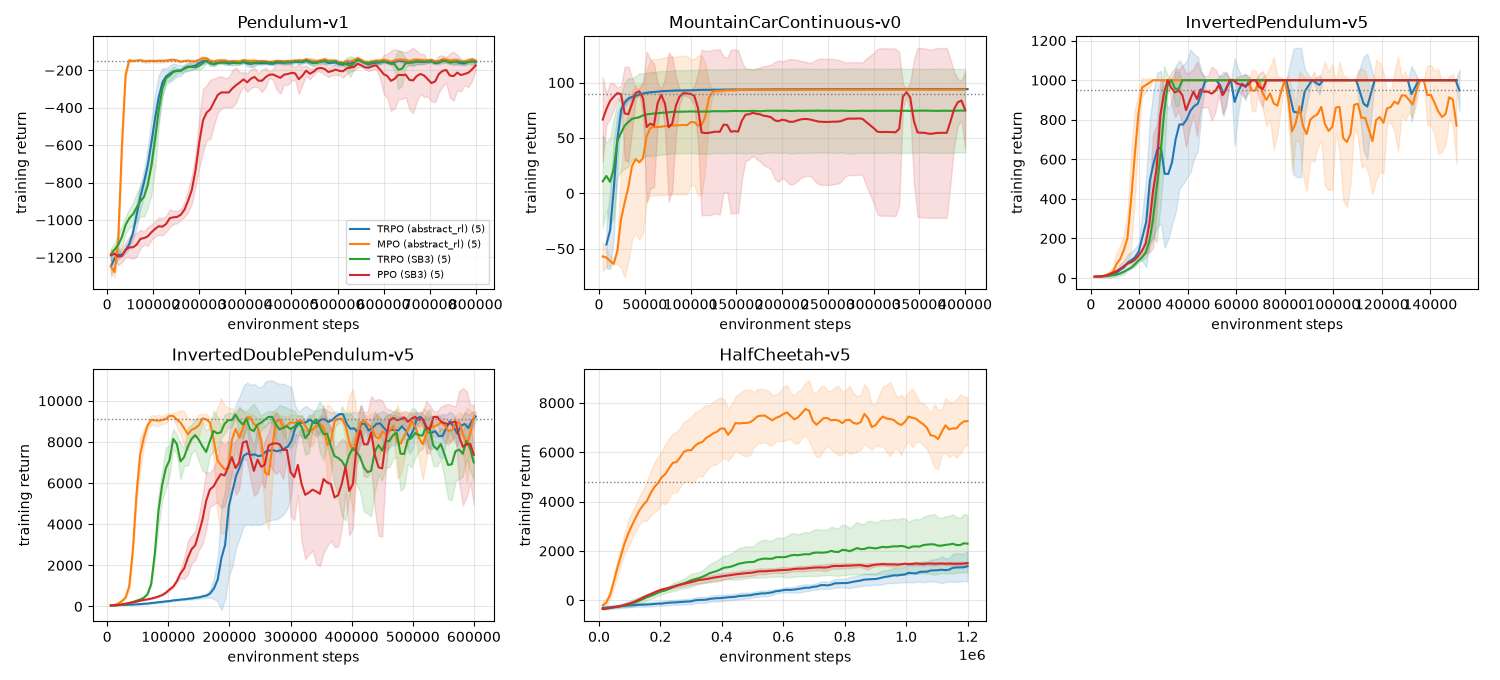
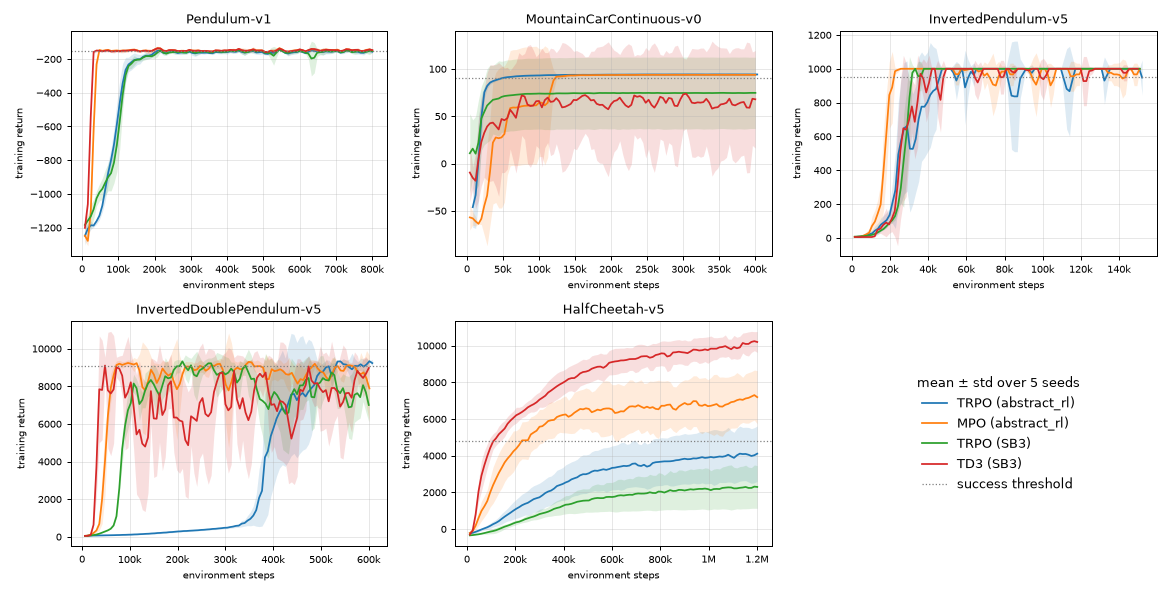
Add benchmark results for MPO, TRPO, SB3 TRPO and SB3 TD3 to the README
Five seeds per algorithm on Pendulum-v1, MountainCarContinuous-v0,
InvertedPendulum-v5, InvertedDoublePendulum-v5 and HalfCheetah-v5, each with
the same env-step budget. MPO solves all five environments on 5/5 seeds; the
README shows a GIF of the best MPO policy per environment and one combined
reward-curve plot of the four algorithms.

Tuned configs behind the results: InvertedPendulum MPO with a 300k replay
memory, InvertedDoublePendulum MPO with a KL trust region of 0.005, and
HalfCheetah TRPO with 300 epochs. The TRPO rows for InvertedDoublePendulum and
HalfCheetah come from reruns with the committed configs.

diff --git a/tests/test_hydra_config.py b/tests/test_hydra_config.py
@@ -27,7 +27,7 @@ def test_deliberate_environment_overrides():
 def test_trpo_budgets_for_halfcheetah_and_inverted_double_pendulum():
     halfcheetah = run_dict(load(["env=halfcheetah", "alg=trpo"]))
     assert halfcheetah["obs_norm"] is True
-    assert halfcheetah["num_epochs"] == 600
+    assert halfcheetah["num_epochs"] == 300
     assert halfcheetah["policy_batch_size"] == 4000
     assert halfcheetah["trpo_tr_eps"] == 0.02
     assert halfcheetah["val_l2_reg"] == 0.0

diff --git a/README.md b/README.md
@@ -9,9 +9,13 @@ Modular PyTorch implementations of **TRPO** and **MPO** for continuous control, 
 ruff, mypy; runs on Gymnasium environments with one- and multi-dimensional actions and is benchmarked against
 Stable-Baselines3.
 
-| MPO on Pendulum-v1 (swing-up from hanging down) | MPO on MountainCarContinuous-v0 |
-|---|---|
-| ![MPO Pendulum](docs/mpo_pendulum_best.gif) | ![MPO MountainCar](docs/mpo_mountaincar_best.gif) |
+| MPO on Pendulum-v1 (swing-up from hanging down) | MPO on MountainCarContinuous-v0 | MPO on InvertedPendulum-v5 |
+|---|---|---|
+| ![MPO Pendulum](docs/mpo_pendulum_best.gif) | ![MPO MountainCar](docs/mpo_mountaincar_best.gif) | ![MPO InvertedPendulum](docs/mpo_inverted_pendulum_best.gif) |
+| **MPO on InvertedDoublePendulum-v5** | **MPO on HalfCheetah-v5** | |
+| ![MPO InvertedDoublePendulum](docs/mpo_inverted_double_pendulum_best.gif) | ![MPO HalfCheetah](docs/mpo_halfcheetah_best.gif) | |
+
+The GIFs show one greedy episode of the best MPO policy per environment (highest greedy return over all runs).
 
 - **TRPO**: Trust Region Policy Optimization ([Schulman et al., 2015](https://arxiv.org/abs/1502.05477)) with
   [GAE](https://arxiv.org/abs/1506.02438), conjugate gradient natural gradient step and a KL line search.
@@ -42,25 +46,28 @@ smoothed training return reaches it (median over the seeds that do).
 | Environment | Algorithm | Seeds | Steps | Greedy return (mean ± std) | Solved | Steps to threshold |
 |---|---|---|---|---|---|---|
 | Pendulum-v1 (≥ -150) | TRPO (abstract_rl) | 5 | 800,000 | -127.7 ± 2.7 | 5/5 | 192,000 (5/5) |
-| Pendulum-v1 (≥ -150) | MPO (abstract_rl) | 5 | 800,000 | -123.8 ± 1.0 | 5/5 | 40,000 (5/5) |
+| Pendulum-v1 (≥ -150) | MPO (abstract_rl) | 5 | 800,000 | -123.3 ± 0.4 | 5/5 | 36,000 (5/5) |
 | Pendulum-v1 (≥ -150) | TRPO (SB3) | 5 | 800,000 | -124.0 ± 1.6 | 5/5 | 204,000 (5/5) |
-| Pendulum-v1 (≥ -150) | TD3 (SB3) | pending | pending | pending | pending | pending |
+| Pendulum-v1 (≥ -150) | TD3 (SB3) | 5 | 800,000 | -120.9 ± 1.0 | 5/5 | 36,000 (5/5) |
 | MountainCarContinuous-v0 (≥ 90) | TRPO (abstract_rl) | 5 | 401,254 | 94.1 ± 0.7 | 5/5 | 44,286 (5/5) |
-| MountainCarContinuous-v0 (≥ 90) | MPO (abstract_rl) | 5 | 400,039 | 93.6 ± 0.0 | 5/5 | 52,000 (5/5) |
+| MountainCarContinuous-v0 (≥ 90) | MPO (abstract_rl) | 5 | 400,038 | 93.6 ± 0.0 | 5/5 | 56,000 (5/5) |
 | MountainCarContinuous-v0 (≥ 90) | TRPO (SB3) | 5 | 400,072 | 74.7 ± 37.5 | 4/5 | 52,013 (4/5) |
-| MountainCarContinuous-v0 (≥ 90) | TD3 (SB3) | pending | pending | pending | pending | pending |
+| MountainCarContinuous-v0 (≥ 90) | TD3 (SB3) | 5 | 399,966 | 54.9 ± 77.4 | 4/5 | 28,993 (4/5) |
 | InvertedPendulum-v5 (≥ 950) | TRPO (abstract_rl) | 5 | 151,370 | 1000.0 ± 0.0 | 5/5 | 28,000 (5/5) |
-| InvertedPendulum-v5 (≥ 950) | MPO (abstract_rl) | 5 | 150,663 | 950.2 ± 99.6 | 4/5 | 19,000 (5/5) |
+| InvertedPendulum-v5 (≥ 950) | MPO (abstract_rl) | 5 | 150,357 | 1000.0 ± 0.0 | 5/5 | 20,000 (5/5) |
 | InvertedPendulum-v5 (≥ 950) | TRPO (SB3) | 5 | 150,523 | 1000.0 ± 0.0 | 5/5 | 29,000 (5/5) |
-| InvertedPendulum-v5 (≥ 950) | TD3 (SB3) | pending | pending | pending | pending | pending |
-| InvertedDoublePendulum-v5 (≥ 9100) | TRPO (abstract_rl) | 5 | 602,473 | 9092.1 ± 218.8 | 2/5 | 211,015 (5/5) |
-| InvertedDoublePendulum-v5 (≥ 9100) | MPO (abstract_rl) | 5 | 600,178 | 5937.0 ± 4162.1 | 3/5 | 66,066 (5/5) |
+| InvertedPendulum-v5 (≥ 950) | TD3 (SB3) | 5 | 149,310 | 1000.0 ± 0.0 | 5/5 | 25,000 (5/5) |
+| InvertedDoublePendulum-v5 (≥ 9100) | TRPO (abstract_rl) | 5 | 605,543 | 9332.8 ± 3.8 | 5/5 | 431,112 (5/5) |
+| InvertedDoublePendulum-v5 (≥ 9100) | MPO (abstract_rl) | 5 | 600,620 | 9332.9 ± 7.4 | 5/5 | 66,110 (5/5) |
 | InvertedDoublePendulum-v5 (≥ 9100) | TRPO (SB3) | 5 | 599,517 | 8270.3 ± 602.2 | 0/5 | 107,946 (5/5) |
-| InvertedDoublePendulum-v5 (≥ 9100) | TD3 (SB3) | pending | pending | pending | pending | pending |
-| HalfCheetah-v5 (≥ 4800) | TRPO (abstract_rl) | 5 | 1,200,000 | 1903.7 ± 862.3 | 0/5 | never |
-| HalfCheetah-v5 (≥ 4800) | MPO (abstract_rl) | 5 | 1,200,000 | 8350.6 ± 1043.4 | 5/5 | 198,000 (5/5) |
+| InvertedDoublePendulum-v5 (≥ 9100) | TD3 (SB3) | 5 | 599,243 | 9347.9 ± 10.3 | 5/5 | 26,996 (5/5) |
+| HalfCheetah-v5 (≥ 4800) | TRPO (abstract_rl) | 5 | 1,200,000 | 4471.7 ± 1645.7 | 3/5 | 732,000 (2/5) |
+| HalfCheetah-v5 (≥ 4800) | MPO (abstract_rl) | 5 | 1,200,000 | 7940.5 ± 1398.2 | 5/5 | 210,000 (5/5) |
 | HalfCheetah-v5 (≥ 4800) | TRPO (SB3) | 5 | 1,200,000 | 2547.9 ± 1314.1 | 0/5 | never |
-| HalfCheetah-v5 (≥ 4800) | TD3 (SB3) | pending | pending | pending | pending | pending |
+| HalfCheetah-v5 (≥ 4800) | TD3 (SB3) | 5 | 1,200,000 | 11009.6 ± 522.5 | 5/5 | 96,000 (5/5) |
+
+Learning curves of the four algorithms on environment steps (training return, mean ± std over the 5 seeds; the
+runs of the table):
 
 ![benchmark](docs/benchmark.png)
 
@@ -70,16 +77,22 @@ smoothed training return reaches it (median over the seeds that do).
   step budget (`max_env_steps`).
 - **Pendulum balance check** (`scripts/eval_balance.py`, |θ| < 0.1 rad in the last 100 of 200 steps, 20 start
   states): TRPO and MPO balance in 5/5 seeds and 20/20 episodes each (max |θ| 0.012-0.057 rad TRPO, 0.032-0.098 rad MPO).
-- **SB3 baselines**: library defaults, except MountainCarContinuous-v0, which uses the
+- **SB3 baselines**: TRPO uses the library defaults, except on MountainCarContinuous-v0, which uses the
   [rl-baselines3-zoo](https://github.com/DLR-RM/rl-baselines3-zoo) hyper-parameters (`--zoo`, gSDE exploration) at
-  the same 400k budget; with defaults both SB3 algorithms score 0 there. On Pendulum-v1 the zoo settings were worse
-  than the defaults (TRPO -136), so the defaults are shown. TD3 is pending.
-- **InvertedPendulum, InvertedDoublePendulum, HalfCheetah** are not re-tuned. MPO stops after a fixed number of epochs
-  and finishes the running episode, so on the two pendulums it ran up to 4-6% past the budget; the learning curves are
-  cut at the budget, the greedy return is the one of the final policy. MPO is less stable late in training there
-  (one InvertedPendulum seed, two InvertedDoublePendulum seeds collapse after reaching the maximum).
-- Runs were made on Linux (Python 3.13) and a MacBook (Python 3.14) with one CPU thread; seeds are fixed but results
-  are not bit-reproducible across machines.
+  the same 400k budget; with the defaults it scores 0 there. On Pendulum-v1 the zoo settings were worse than the
+  defaults (-136), so the defaults are shown. TD3 always uses the zoo hyper-parameters (`ZOO` in
+  `scripts/run_baselines.py`); on MountainCarContinuous-v0 one of five seeds (seed 3) never finds the goal (-99.9).
+- **MPO tuned for InvertedPendulum and InvertedDoublePendulum** (one setting each, see `conf/tune/`): a 300k
+  instead of 50k replay memory (`tc_size`) on InvertedPendulum (4/5 → 5/5 seeds) and a KL trust region
+  (`mpo_trust_regions`) of 0.005 instead of 0.01 on InvertedDoublePendulum (3/5 → 5/5); both remove the late-training
+  collapse of single seeds. HalfCheetah MPO is not re-tuned. MPO stops after a fixed number of epochs and finishes the
+  running episode, so on the two pendulums it ran up to 5% (InvertedPendulum) and 7% (InvertedDoublePendulum) past the
+  budget; the learning curves are cut at the budget, the greedy return is the one of the final policy.
+- **TRPO tuned for InvertedDoublePendulum and HalfCheetah** (see `conf/tune/`): InvertedDoublePendulum 75 × 8000
+  steps with a KL trust region of 0.005, HalfCheetah 300 × 4000 steps with a KL trust region of 0.02 and `obs_norm`,
+  both without the value L2 penalty (InvertedDoublePendulum 2/5 → 5/5, HalfCheetah 0/5 → 3/5 seeds).
+- Runs were made on Linux and a MacBook (Python 3.13) with one CPU thread; seeds are fixed but
+  results are not bit-reproducible across machines.
 
 ## Usage
 
